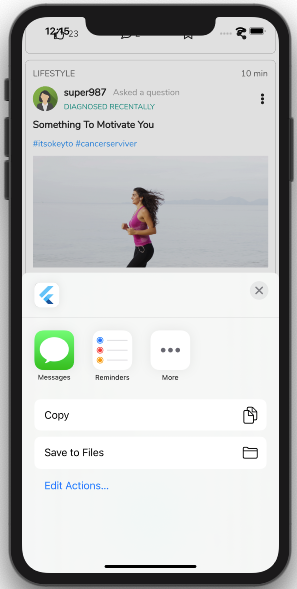
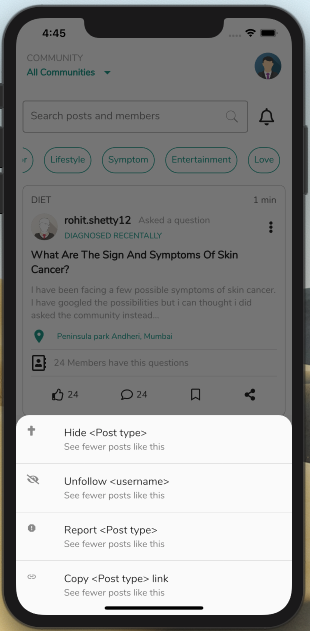
detail screen

diff --git a/README.md b/README.md
@@ -12,7 +12,21 @@
 
   Screenshots:
   
-  <img src='https://github.com/ishaileshmishra/healthnest/blob/master/screenshots/login1.png' width='250' height='510'/> .. <img src='https://github.com/ishaileshmishra/healthnest/blob/master/screenshots/login2.png' width='250' height='510'/> .. <img src='https://github.com/ishaileshmishra/healthnest/blob/master/screenshots/login3.png' width='250' height='510'/> .. <img src='https://github.com/ishaileshmishra/healthnest/blob/master/screenshots/news_1.png' width='250' height='510'/>  .. <img src='https://github.com/ishaileshmishra/healthnest/blob/master/screenshots/news_2.png' width='250' height='510'/>  .. <img src='https://github.com/ishaileshmishra/healthnest/blob/master/screenshots/news_3.png' width='250' height='510'/> .. <img src='https://github.com/ishaileshmishra/healthnest/blob/master/screenshots/news_4.png' width='250' height='510'/> .. <img src='https://github.com/ishaileshmishra/healthnest/blob/master/screenshots/3dots.png' width='250' height='510'/> .. <img src='https://github.com/ishaileshmishra/healthnest/blob/master/screenshots/add_more.png' width='250' height='510'/> .. <img src='https://github.com/ishaileshmishra/healthnest/blob/master/screenshots/share.png' width='250' height='510'/> .. <img src='https://github.com/ishaileshmishra/healthnest/blob/master/screenshots/post_details.png' width='250' height='510'/> .. <img src='https://github.com/ishaileshmishra/healthnest/blob/master/screenshots/post.png' width='250' height='510'/> .. <img src='https://github.com/ishaileshmishra/healthnest/blob/master/screenshots/post_scrolled.png' width='250' height='510'/> .. <img src='https://github.com/ishaileshmishra/healthnest/blob/master/screenshots/post_textfield.png' width='250' height='510'/> .. <img src='https://github.com/ishaileshmishra/healthnest/blob/master/screenshots/focused_text_field.png' width='250' height='510'/> .. <img src='https://github.com/ishaileshmishra/healthnest/blob/master/screenshots/focused_text_field_text.png' width='250' height='510'/>
+  <img src='https://github.com/ishaileshmishra/healthnest/blob/master/screenshots/login1.png' width='250' height='510'/> 
+  .. <img src='https://github.com/ishaileshmishra/healthnest/blob/master/screenshots/login2.png' width='250' height='510'/> 
+  .. <img src='https://github.com/ishaileshmishra/healthnest/blob/master/screenshots/login3.png' width='250' height='510'/> 
+  .. <img src='https://github.com/ishaileshmishra/healthnest/blob/master/screenshots/news_1.png' width='250' height='510'/>  
+  .. <img src='https://github.com/ishaileshmishra/healthnest/blob/master/screenshots/news_2.png' width='250' height='510'/>  
+  .. <img src='https://github.com/ishaileshmishra/healthnest/blob/master/screenshots/news_3.png' width='250' height='510'/> 
+  .. <img src='https://github.com/ishaileshmishra/healthnest/blob/master/screenshots/news_4.png' width='250' height='510'/>
+  .. <img src='https://github.com/ishaileshmishra/healthnest/blob/master/screenshots/news_5.png' width='250' height='510'/>  
+  .. <img src='https://github.com/ishaileshmishra/healthnest/blob/master/screenshots/other_options.png' width='250' height='510'/> 
+  .. <img src='https://github.com/ishaileshmishra/healthnest/blob/master/screenshots/post1.png' width='250' height='510'/> 
+  .. <img src='https://github.com/ishaileshmishra/healthnest/blob/master/screenshots/post2.png' width='250' height='510'/> 
+  .. <img src='https://github.com/ishaileshmishra/healthnest/blob/master/screenshots/post3.png' width='250' height='510'/> 
+  .. <img src='https://github.com/ishaileshmishra/healthnest/blob/master/screenshots/post4.png' width='250' height='510'/> 
+  .. <img src='https://github.com/ishaileshmishra/healthnest/blob/master/screenshots/post5.png' width='250' height='510'/> 
+  .. <img src='https://github.com/ishaileshmishra/healthnest/blob/master/screenshots/share.png' width='250' height='510'/> 
 
 
   
